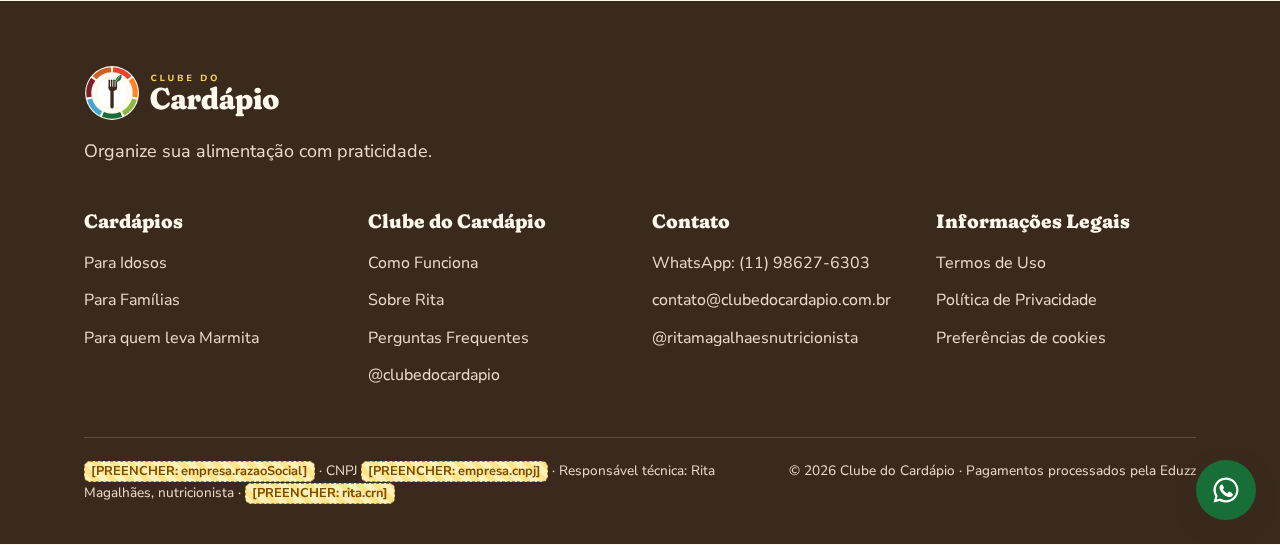
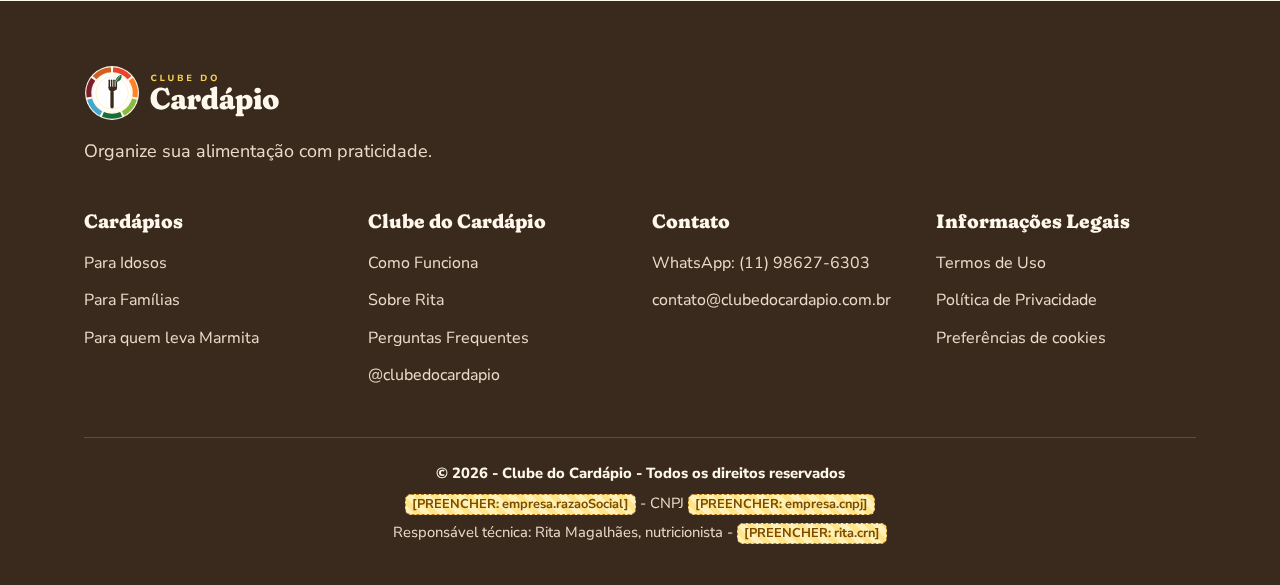
Rodapé: linhas legais centralizadas e sem o Instagram da Rita
Claude-Session: https://claude.ai/code/session_011dvyRhPNz3FX2TnzhsmVBS

diff --git a/docs/componentes/index.html b/docs/componentes/index.html
@@ -232,7 +232,6 @@
           <ul>
             <li><a href="#" data-whats="Olá! Tenho uma dúvida sobre o Clube do Cardápio." data-whats-origem="rodape">WhatsApp: <span data-cc="empresa.whatsappExibicao"></span></a></li>
             <li><a href="mailto:contato@clubedocardapio.com.br" data-cc="empresa.email"></a></li>
-            <li><a href="#" data-insta="rita.instagram">@ritamagalhaesnutricionista</a></li>
           </ul>
         </div>
         <nav aria-label="Informações legais">
@@ -245,8 +244,10 @@
         </nav>
       </div>
       <div class="rodape__legal">
-        <span><span data-cc="empresa.razaoSocial"></span> · CNPJ <span data-cc="empresa.cnpj"></span> · Responsável técnica: Rita Magalhães, nutricionista · <span data-cc="rita.crn"></span></span>
-        <span>© <span data-ano></span> Clube do Cardápio · Pagamentos processados pela Eduzz</span>
+        <p><strong>© <span data-ano></span> - Clube do Cardápio - Todos os direitos reservados</strong></p>
+        <p><span data-cc="empresa.razaoSocial"></span> - CNPJ <span data-cc="empresa.cnpj"></span></p>
+        <p data-cc="empresa.endereco" data-cc-opcional></p>
+        <p>Responsável técnica: Rita Magalhães, nutricionista - <span data-cc="rita.crn"></span></p>
       </div>
     </div>
   </footer>

diff --git a/css/main.css b/css/main.css
@@ -366,8 +366,8 @@ p { text-wrap: pretty; }
 @media (min-width: 900px) { .rodape__grade { grid-template-columns: repeat(4, 1fr); } }
 .rodape h4 { font: 800 1.2rem/1.2 var(--f-titulo); color: var(--creme); margin-bottom: 18px; }
 .rodape ul { list-style: none; padding: 0; display: grid; gap: 12px; }
-.rodape__legal { border-top: 1px solid rgba(233, 220, 203, .2); margin-top: 48px; padding-top: 22px; display: grid; gap: 6px; font-size: .85rem; }
-@media (min-width: 900px) { .rodape__legal { grid-template-columns: 1fr auto; column-gap: 24px; } }
+.rodape__legal { border-top: 1px solid rgba(233, 220, 203, .2); margin-top: 48px; padding-top: 24px; display: grid; gap: 6px; text-align: center; font-size: .92rem; }
+.rodape__legal strong { color: var(--creme); font-weight: 800; }
 
 /* ---------- Barra de compra fixa (celular) ---------- */
 .barra-compra {

diff --git a/js/config.js b/js/config.js
@@ -18,6 +18,7 @@ window.CC_CONFIG = {
   empresa: {
     razaoSocial: "",           // ex.: "BESILVA LTDA"
     cnpj: "",                  // ex.: "00.000.000/0001-00"
+    endereco: "",              // endereço da empresa, ex.: "Rua X, 100 - Bairro, Cidade - UF, CEP 00000-000"
     email: "contato@clubedocardapio.com.br",
     whatsapp: "5511986276303", // só números com DDI e DDD
     whatsappExibicao: "(11) 98627-6303",
@@ -28,7 +29,6 @@ window.CC_CONFIG = {
   rita: {
     nome: "Rita Magalhães",
     crn: "",                   // ex.: "CRN-3 00000"
-    instagram: "ritamagalhaesnutricionista", // sem @
   },
 
   /* ---- Produtos (links de checkout da Eduzz e preços) ----
